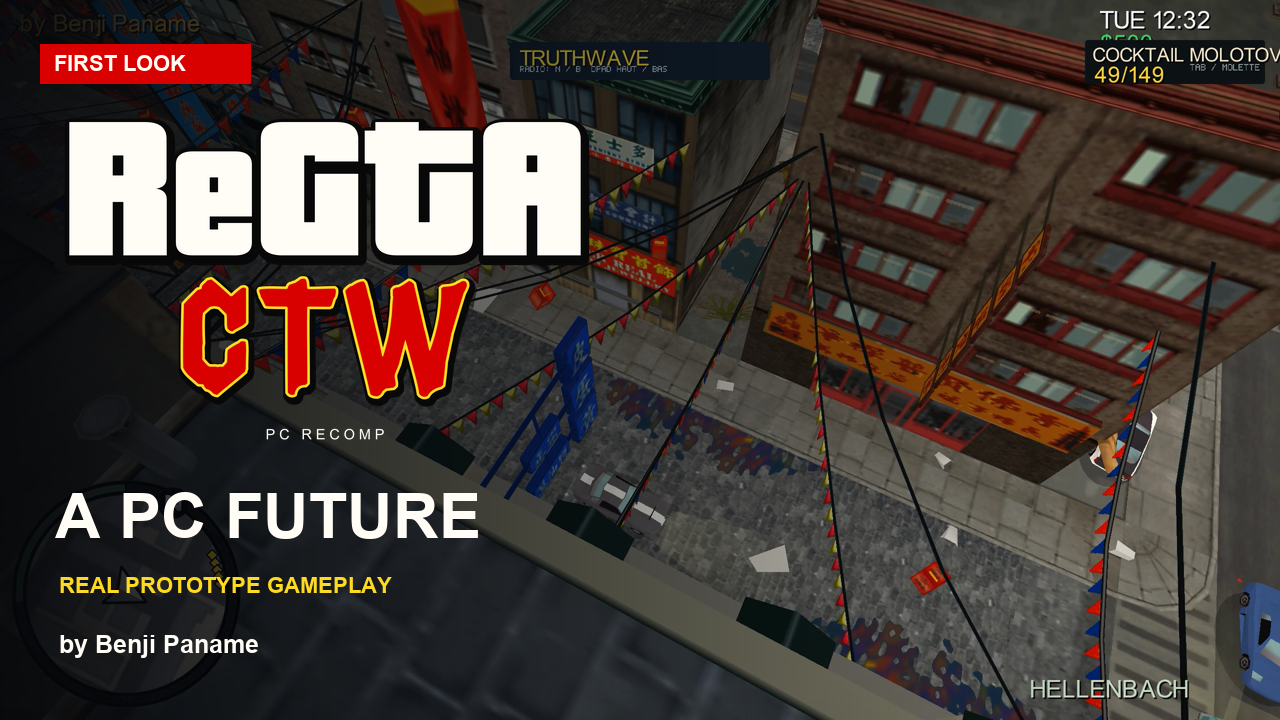
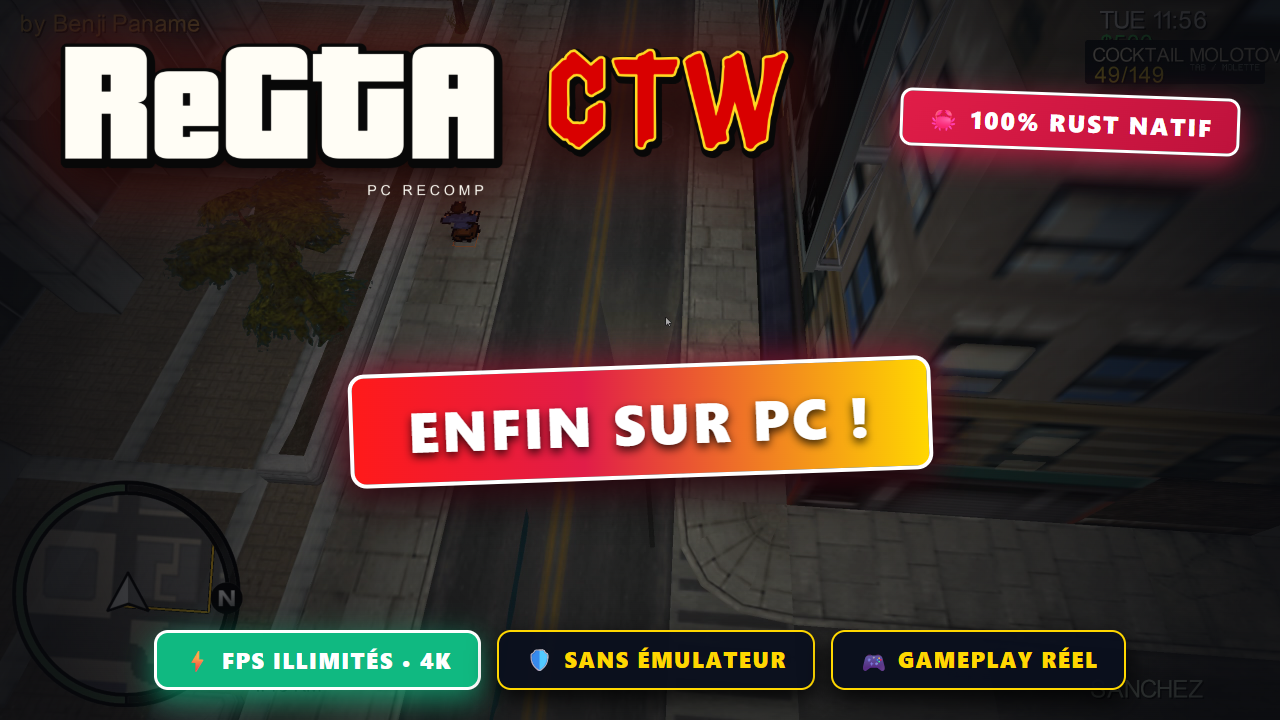
feat(branding,video): generate high-CTR YouTube thumbnail variants with Benjamin's native gameplay

diff --git a/tools/video/generate_thumbnails.py b/tools/video/generate_thumbnails.py
@@ -1,0 +1,362 @@
+"""Generates high-CTR, professional 1280x720 YouTube Thumbnail variants
+using Benjamin's actual Rust gameplay recordings and official brand logos.
+"""
+import subprocess
+from pathlib import Path
+
+ROOT = Path(__file__).resolve().parents[2]
+DOCS_ASSETS = ROOT / "docs" / "assets"
+FRAMES_DIR = ROOT / "outputs" / "CTW-Rust" / "video" / "thumb_frames"
+OUTPUT_DIR = ROOT / "outputs" / "CTW-Rust" / "video" / "thumbnails"
+EDGE_EXE = r"C:\Program Files (x86)\Microsoft\Edge\Application\msedge.exe"
+
+OUTPUT_DIR.mkdir(parents=True, exist_ok=True)
+
+LOGO_VERT_URI = (DOCS_ASSETS / "logo-transparent.png").resolve().as_uri()
+LOGO_HORIZ_URI = (DOCS_ASSETS / "logo-ctw-transparent.png").resolve().as_uri()
+
+BG_MOTO_URI = (FRAMES_DIR / "moto_boulevard.jpg").resolve().as_uri()
+BG_CAR_URI = (FRAMES_DIR / "car_hellenbach.jpg").resolve().as_uri()
+BG_SPARK_URI = (FRAMES_DIR / "sprint_radar.jpg").resolve().as_uri()
+
+
+def render_html_to_png(html_content: str, png_path: Path):
+    temp_html = png_path.with_suffix(".html")
+    temp_html.write_text(html_content, encoding="utf-8")
+    cmd = [
+        EDGE_EXE,
+        "--headless",
+        r"--user-data-dir=C:\Users\BENJAMIN\AppData\Local\Temp\edge_thumb_temp",
+        "--default-background-color=ff08090d",
+        f"--screenshot={png_path.resolve()}",
+        "--window-size=1280,720",
+        f"file:///{temp_html.resolve().as_posix()}",
+    ]
+    subprocess.run(cmd, check=True)
+    if temp_html.exists():
+        temp_html.unlink()
+    print(f"Generated thumbnail: {png_path.name} ({png_path.stat().st_size // 1024} KB)")
+
+
+def generate_style_1_action_fr():
+    """Style 1 (Recommandé) : Action Sanchez, Logo officiel, Bandeau massif 'ENFIN SUR PC !'"""
+    html = f"""<!DOCTYPE html>
+<html>
+<head>
+<meta charset="utf-8">
+<style>
+* {{ box-sizing: border-box; margin: 0; padding: 0; }}
+body {{
+    width: 1280px; height: 720px;
+    background: #08090d url('{BG_MOTO_URI}') center/cover no-repeat;
+    position: relative;
+    display: flex; flex-direction: column; justify-content: space-between; align-items: center;
+    padding: 30px 40px;
+    font-family: 'Segoe UI', Arial Black, Impact, sans-serif;
+    color: #fff;
+    overflow: hidden;
+}}
+.vignette {{
+    position: absolute; top: 0; left: 0; width: 100%; height: 100%;
+    background: radial-gradient(circle at 50% 55%, rgba(0,0,0,0.25) 0%, rgba(8,9,13,0.88) 85%);
+    z-index: 1;
+}}
+.content {{
+    position: relative; z-index: 2; width: 100%; height: 100%;
+    display: flex; flex-direction: column; justify-content: space-between; align-items: center;
+}}
+.top-row {{
+    display: flex; justify-content: space-between; align-items: center; width: 100%;
+}}
+.logo-container img {{
+    height: 180px;
+    filter: drop-shadow(0 12px 28px rgba(0,0,0,0.98)) drop-shadow(0 0 25px rgba(255, 59, 48, 0.4));
+}}
+.tag-rust {{
+    background: linear-gradient(135deg, #e11d48, #be123c);
+    border: 3px solid #ffffff;
+    border-radius: 12px;
+    padding: 10px 24px;
+    font-size: 24px; font-weight: 900;
+    color: #fff;
+    letter-spacing: 2px;
+    text-transform: uppercase;
+    box-shadow: 0 10px 30px rgba(225, 29, 72, 0.7);
+    transform: rotate(2deg);
+}}
+.giant-banner {{
+    background: linear-gradient(90deg, #ff1a1a 0%, #e11d48 40%, #ffd700 100%);
+    padding: 16px 55px;
+    border-radius: 16px;
+    font-size: 56px; font-weight: 900; letter-spacing: 3px;
+    color: #ffffff;
+    box-shadow: 0 15px 45px rgba(0, 0, 0, 0.9), 0 0 35px rgba(225, 29, 72, 0.8);
+    border: 4px solid #ffffff;
+    text-transform: uppercase;
+    transform: rotate(-2deg);
+    text-shadow: 0 4px 10px rgba(0,0,0,0.8);
+}}
+.badge-row {{
+    display: flex; gap: 16px; width: 100%; justify-content: center;
+}}
+.thumb-badge {{
+    background: rgba(10, 15, 29, 0.94);
+    border: 2px solid #ffd700;
+    padding: 12px 26px; border-radius: 14px;
+    font-size: 22px; font-weight: 900; color: #ffd700;
+    box-shadow: 0 10px 25px rgba(0,0,0,0.85);
+    letter-spacing: 1.5px;
+    text-transform: uppercase;
+}}
+.badge-highlight {{
+    background: #10b981; color: #ffffff; border: 3px solid #ffffff;
+    box-shadow: 0 10px 30px rgba(16, 185, 129, 0.7);
+}}
+</style>
+</head>
+<body>
+    <div class="vignette"></div>
+    <div class="content">
+        <div class="top-row">
+            <div class="logo-container">
+                <img src="{LOGO_HORIZ_URI}" alt="ReGTA CTW Logo">
+            </div>
+            <div class="tag-rust">
+                🦀 100% RUST NATIF
+            </div>
+        </div>
+        <div class="giant-banner">
+            ENFIN SUR PC !
+        </div>
+        <div class="badge-row">
+            <div class="thumb-badge badge-highlight">⚡ FPS ILLIMITÉS • 4K</div>
+            <div class="thumb-badge">🛡 SANS ÉMULATEUR</div>
+            <div class="thumb-badge">🎮 GAMEPLAY RÉEL</div>
+        </div>
+    </div>
+</body>
+</html>"""
+    out = OUTPUT_DIR / "thumbnail_style1_action_fr.png"
+    render_html_to_png(html, out)
+    return out
+
+
+def generate_style_2_muscle_car_fr():
+    """Style 2 : Bolide Hellenbach, gros logo vertical, badge 'PORTAGE PC EN RUST'"""
+    html = f"""<!DOCTYPE html>
+<html>
+<head>
+<meta charset="utf-8">
+<style>
+* {{ box-sizing: border-box; margin: 0; padding: 0; }}
+body {{
+    width: 1280px; height: 720px;
+    background: #08090d url('{BG_CAR_URI}') center/cover no-repeat;
+    position: relative;
+    display: flex; flex-direction: column; justify-content: space-between; align-items: center;
+    padding: 35px 45px;
+    font-family: 'Segoe UI', Arial Black, Impact, sans-serif;
+    color: #fff;
+    overflow: hidden;
+}}
+.vignette {{
+    position: absolute; top: 0; left: 0; width: 100%; height: 100%;
+    background: radial-gradient(circle at 60% 50%, rgba(0,0,0,0.3) 0%, rgba(8,9,13,0.92) 80%);
+    z-index: 1;
+}}
+.content {{
+    position: relative; z-index: 2; width: 100%; height: 100%;
+    display: flex; flex-direction: column; justify-content: space-between;
+}}
+.header-box {{
+    display: flex; align-items: center; justify-content: space-between;
+}}
+.logo-box img {{
+    height: 220px;
+    filter: drop-shadow(0 15px 30px rgba(0,0,0,0.95)) drop-shadow(0 0 20px rgba(255,215,0,0.3));
+}}
+.title-side {{
+    text-align: right;
+}}
+.title-main {{
+    font-size: 54px; font-weight: 900; line-height: 1.1;
+    color: #ffd700;
+    text-shadow: 0 4px 15px rgba(0,0,0,0.9), 0 0 25px rgba(255, 215, 0, 0.5);
+    text-transform: uppercase;
+}}
+.title-sub {{
+    font-size: 32px; font-weight: 900; color: #ffffff;
+    background: rgba(225, 29, 72, 0.9);
+    display: inline-block; padding: 6px 18px; border-radius: 8px; margin-top: 10px;
+    border: 2px solid #fff;
+}}
+.mid-banner {{
+    background: rgba(15, 23, 42, 0.92);
+    border-left: 8px solid #10b981;
+    padding: 15px 25px; border-radius: 10px;
+    font-size: 26px; font-weight: 800; color: #fff;
+    max-width: 700px;
+    box-shadow: 0 10px 30px rgba(0,0,0,0.8);
+}}
+.badge-row {{
+    display: flex; gap: 16px;
+}}
+.thumb-badge {{
+    background: rgba(10, 15, 29, 0.94);
+    border: 2px solid #ffd700;
+    padding: 12px 24px; border-radius: 12px;
+    font-size: 21px; font-weight: 900; color: #ffd700;
+    box-shadow: 0 10px 25px rgba(0,0,0,0.85);
+}}
+.badge-highlight {{
+    background: #10b981; color: #ffffff; border: 3px solid #ffffff;
+}}
+</style>
+</head>
+<body>
+    <div class="vignette"></div>
+    <div class="content">
+        <div class="header-box">
+            <div class="logo-box">
+                <img src="{LOGO_VERT_URI}" alt="ReGTA CTW Logo">
+            </div>
+            <div class="title-side">
+                <div class="title-main">PORTAGE PC NATIF</div>
+                <div class="title-sub">🦀 CODE MACHINE RUST</div>
+            </div>
+        </div>
+        <div class="mid-banner">
+            🚀 15 ANS APRÈS : ADIEU L'ÉMULATEUR !
+        </div>
+        <div class="badge-row">
+            <div class="thumb-badge badge-highlight">⚡ FPS ILLIMITÉS (144Hz+)</div>
+            <div class="thumb-badge">🛡 ZÉRO ÉMULATEUR</div>
+            <div class="thumb-badge">🏎 16 COURSES & DEALERS</div>
+        </div>
+    </div>
+</body>
+</html>"""
+    out = OUTPUT_DIR / "thumbnail_style2_muscle_car_fr.png"
+    render_html_to_png(html, out)
+    return out
+
+
+def generate_style_3_international_en():
+    """Style 3 : Version anglaise / internationale 'FINALLY ON PC !'"""
+    html = f"""<!DOCTYPE html>
+<html>
+<head>
+<meta charset="utf-8">
+<style>
+* {{ box-sizing: border-box; margin: 0; padding: 0; }}
+body {{
+    width: 1280px; height: 720px;
+    background: #08090d url('{BG_MOTO_URI}') center/cover no-repeat;
+    position: relative;
+    display: flex; flex-direction: column; justify-content: space-between; align-items: center;
+    padding: 30px 40px;
+    font-family: 'Segoe UI', Arial Black, Impact, sans-serif;
+    color: #fff;
+    overflow: hidden;
+}}
+.vignette {{
+    position: absolute; top: 0; left: 0; width: 100%; height: 100%;
+    background: radial-gradient(circle at 50% 50%, rgba(0,0,0,0.3) 0%, rgba(8,9,13,0.88) 85%);
+    z-index: 1;
+}}
+.content {{
+    position: relative; z-index: 2; width: 100%; height: 100%;
+    display: flex; flex-direction: column; justify-content: space-between; align-items: center;
+}}
+.top-box {{
+    display: flex; justify-content: space-between; align-items: center; width: 100%;
+}}
+.logo-container img {{
+    height: 175px;
+    filter: drop-shadow(0 12px 28px rgba(0,0,0,0.98)) drop-shadow(0 0 25px rgba(255, 59, 48, 0.4));
+}}
+.badge-devlog {{
+    background: linear-gradient(135deg, #ffd700, #f59e0b);
+    color: #08090d;
+    padding: 10px 26px; border-radius: 12px;
+    font-size: 24px; font-weight: 900; letter-spacing: 2px;
+    box-shadow: 0 10px 30px rgba(255, 215, 0, 0.6);
+    border: 3px solid #ffffff;
+}}
+.giant-banner {{
+    background: linear-gradient(90deg, #ff1a1a 0%, #e11d48 40%, #ffd700 100%);
+    padding: 16px 55px;
+    border-radius: 16px;
+    font-size: 58px; font-weight: 900; letter-spacing: 3px;
+    color: #ffffff;
+    box-shadow: 0 15px 45px rgba(0, 0, 0, 0.9), 0 0 35px rgba(225, 29, 72, 0.8);
+    border: 4px solid #ffffff;
+    text-transform: uppercase;
+    transform: rotate(-1.5deg);
+    text-shadow: 0 4px 10px rgba(0,0,0,0.8);
+}}
+.badge-row {{
+    display: flex; gap: 16px; width: 100%; justify-content: center;
+}}
+.thumb-badge {{
+    background: rgba(10, 15, 29, 0.94);
+    border: 2px solid #ffd700;
+    padding: 12px 26px; border-radius: 14px;
+    font-size: 22px; font-weight: 900; color: #ffd700;
+    box-shadow: 0 10px 25px rgba(0,0,0,0.85);
+    letter-spacing: 1.5px;
+    text-transform: uppercase;
+}}
+.badge-highlight {{
+    background: #10b981; color: #ffffff; border: 3px solid #ffffff;
+    box-shadow: 0 10px 30px rgba(16, 185, 129, 0.7);
+}}
+</style>
+</head>
+<body>
+    <div class="vignette"></div>
+    <div class="content">
+        <div class="top-box">
+            <div class="logo-container">
+                <img src="{LOGO_HORIZ_URI}" alt="ReGTA CTW Logo">
+            </div>
+            <div class="badge-devlog">
+                ⚡ DEVLOG #1
+            </div>
+        </div>
+        <div class="giant-banner">
+            FINALLY ON PC !
+        </div>
+        <div class="badge-row">
+            <div class="thumb-badge badge-highlight">⚡ UNCAPPED FPS • 4K</div>
+            <div class="thumb-badge">🦀 100% RUST PORT</div>
+            <div class="thumb-badge">🛡 NO EMULATOR</div>
+        </div>
+    </div>
+</body>
+</html>"""
+    out = OUTPUT_DIR / "thumbnail_style3_international_en.png"
+    render_html_to_png(html, out)
+    return out
+
+
+def main():
+    print("--- Generating High-CTR Thumbnail Variants ---")
+    s1 = generate_style_1_action_fr()
+    s2 = generate_style_2_muscle_car_fr()
+    s3 = generate_style_3_international_en()
+
+    # Default thumbnail set to Style 1 (Action + ENFIN SUR PC !)
+    dest_docs = DOCS_ASSETS / "thumbnail.png"
+    dest_docs.write_bytes(s1.read_bytes())
+    dest_video = ROOT / "outputs" / "CTW-Rust" / "video" / "thumbnail.png"
+    dest_video.write_bytes(s1.read_bytes())
+    dest_launch = ROOT / "outputs" / "CTW-Rust" / "video" / "launch-film" / "thumbnail.png"
+    if dest_launch.parent.exists():
+        dest_launch.write_bytes(s1.read_bytes())
+
+    print(f"\nDefault thumbnail updated with Style 1 -> {dest_docs}")
+
+
+if __name__ == "__main__":
+    main()
